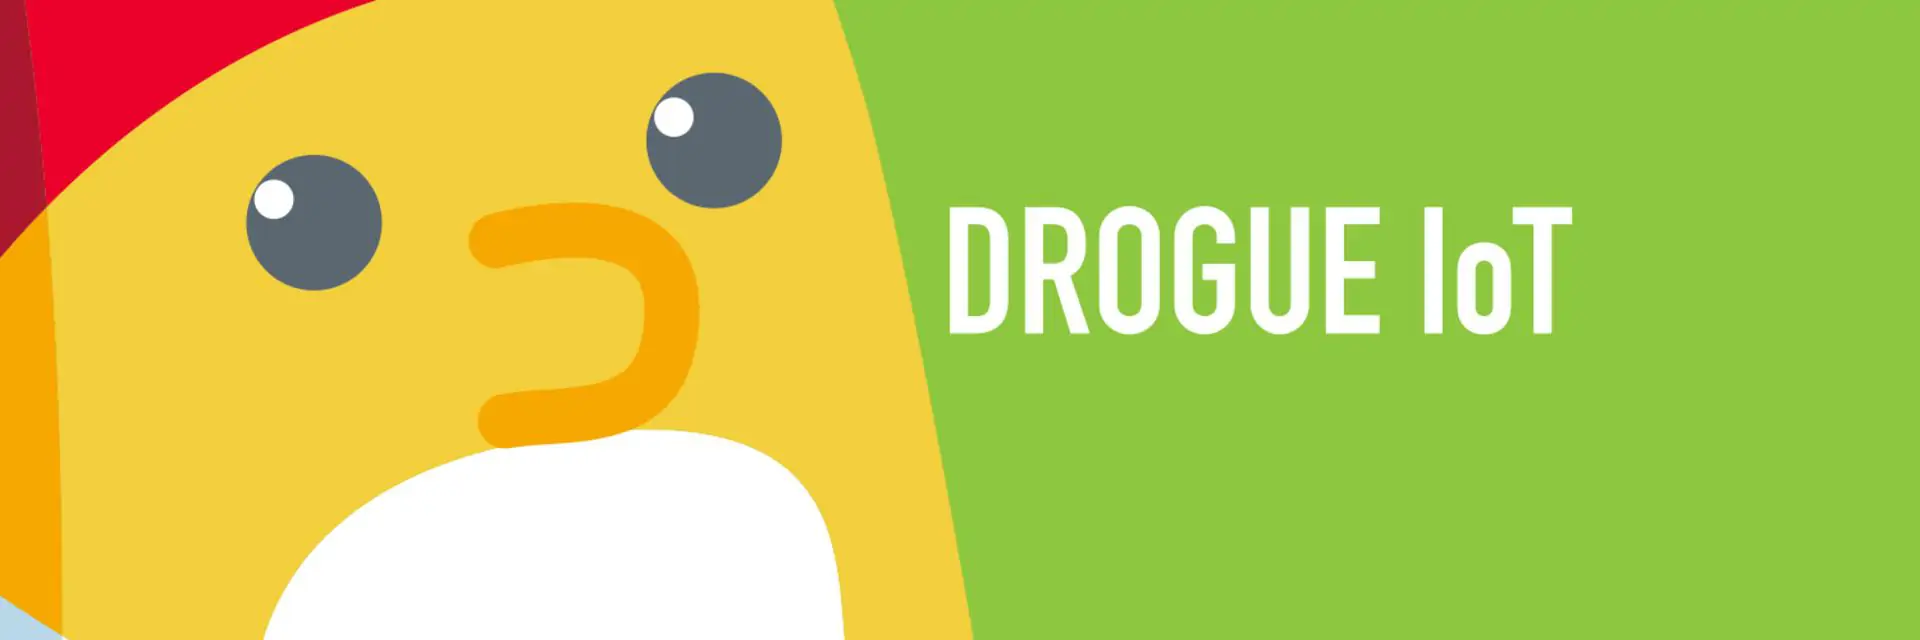
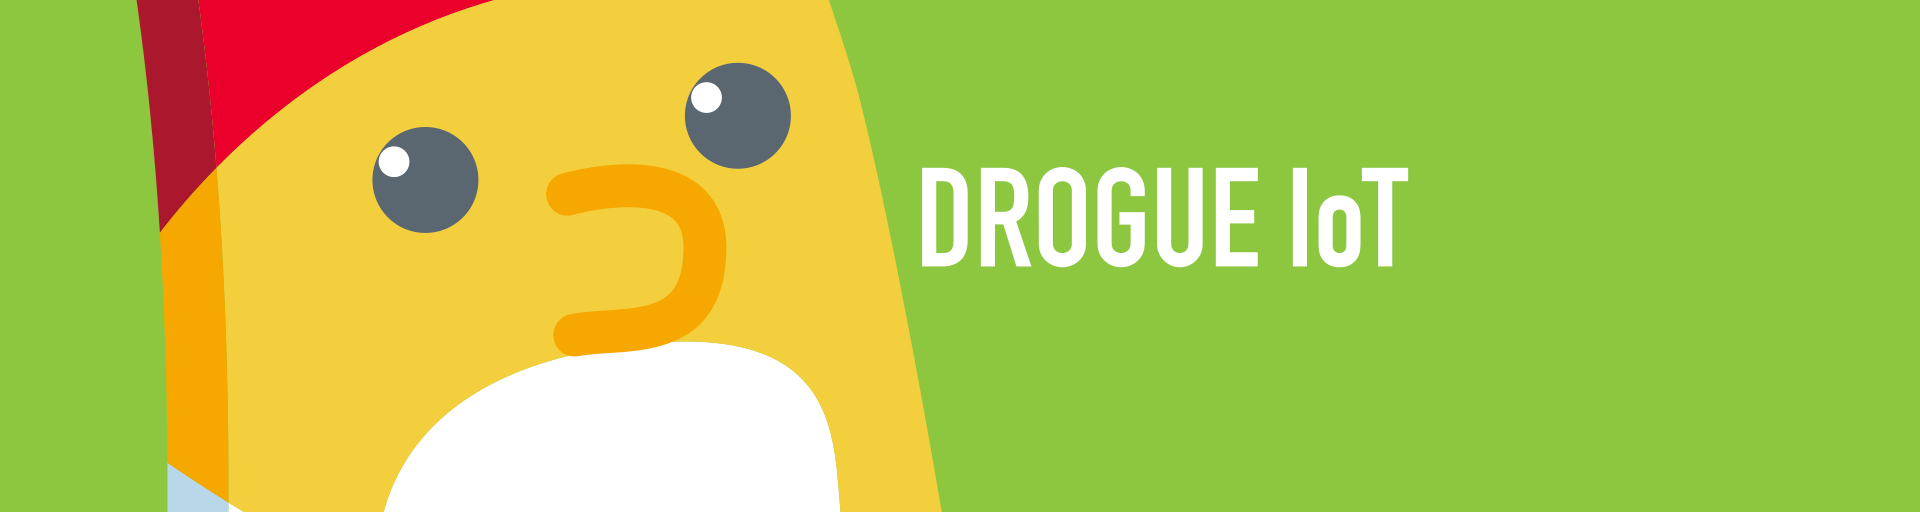
Stick to png until we have a scalable SVG

Changed region(s): [[0.0, 0.0, 0.8438, 1.0], [0.4062, 0.7188, 0.4375, 0.7812], [0.4062, 0.0, 0.4375, 0.0312]]

diff --git a/templates/index.html b/templates/index.html
@@ -12,5 +12,9 @@
 {% endblock extra_head %}
 
 {% block header_image %}
-<img class="header-image ignore-js" src="/blog_header.svg" type="image/svg+xml" alt="Header image" width="100%">
+<picture>
+    <source type="image/webp" srcset="/header.768w.webp 768w, /header.1920w.webp 1920w">
+    <source type="image/jpeg" srcset="/header.768w.png 768w, /header.1920w.png 1920w">
+    <img class="header-image ignore-js" src="/header.768w.png" alt="Header image">
+</picture>
 {% endblock header_image %}
